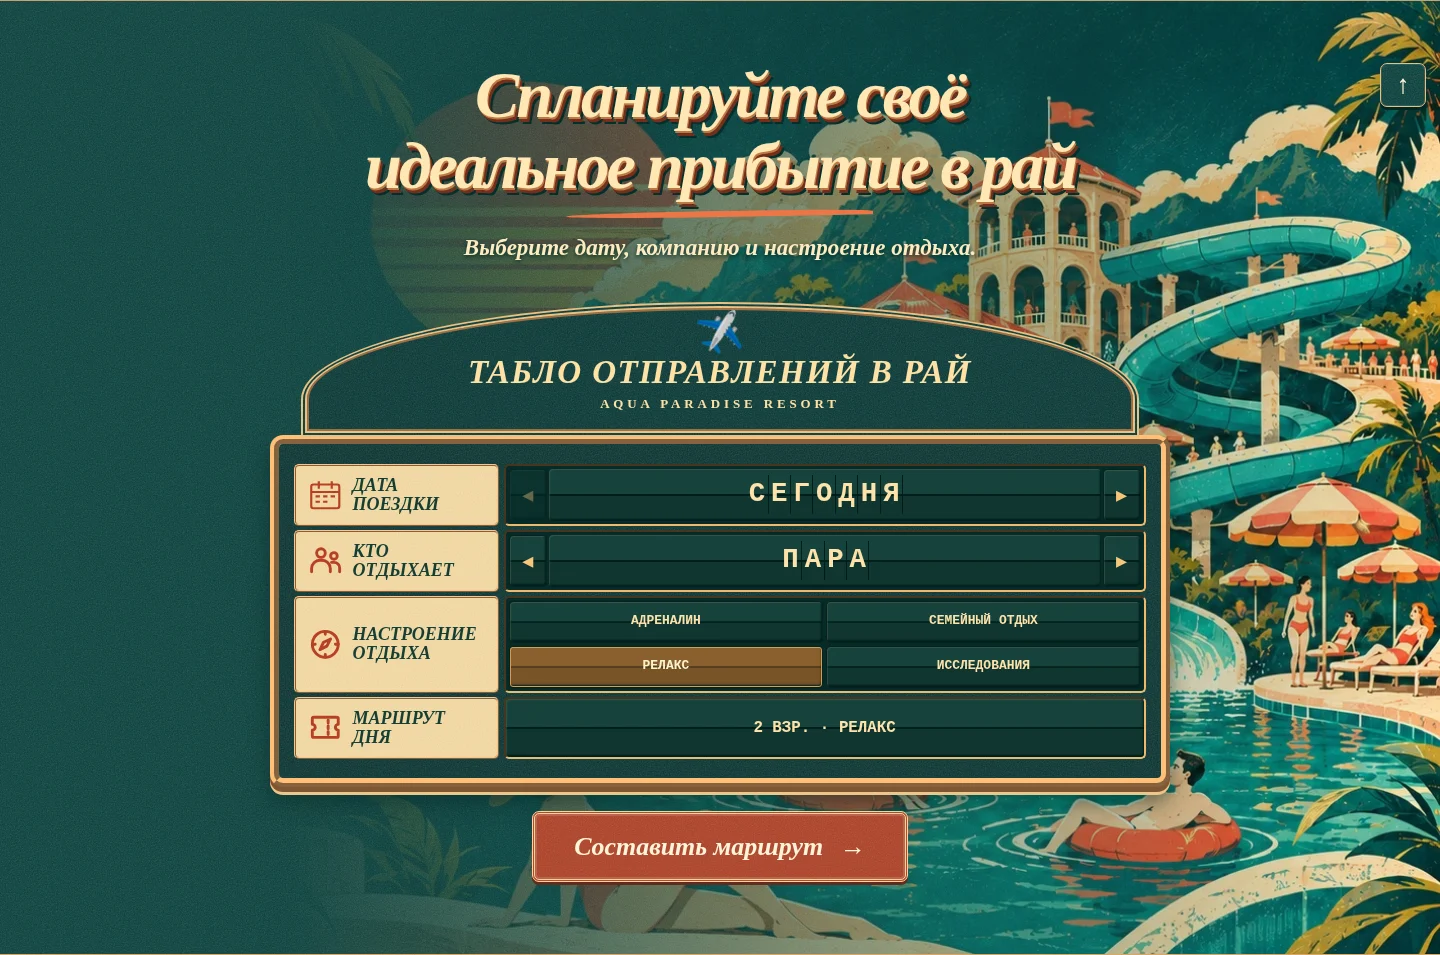
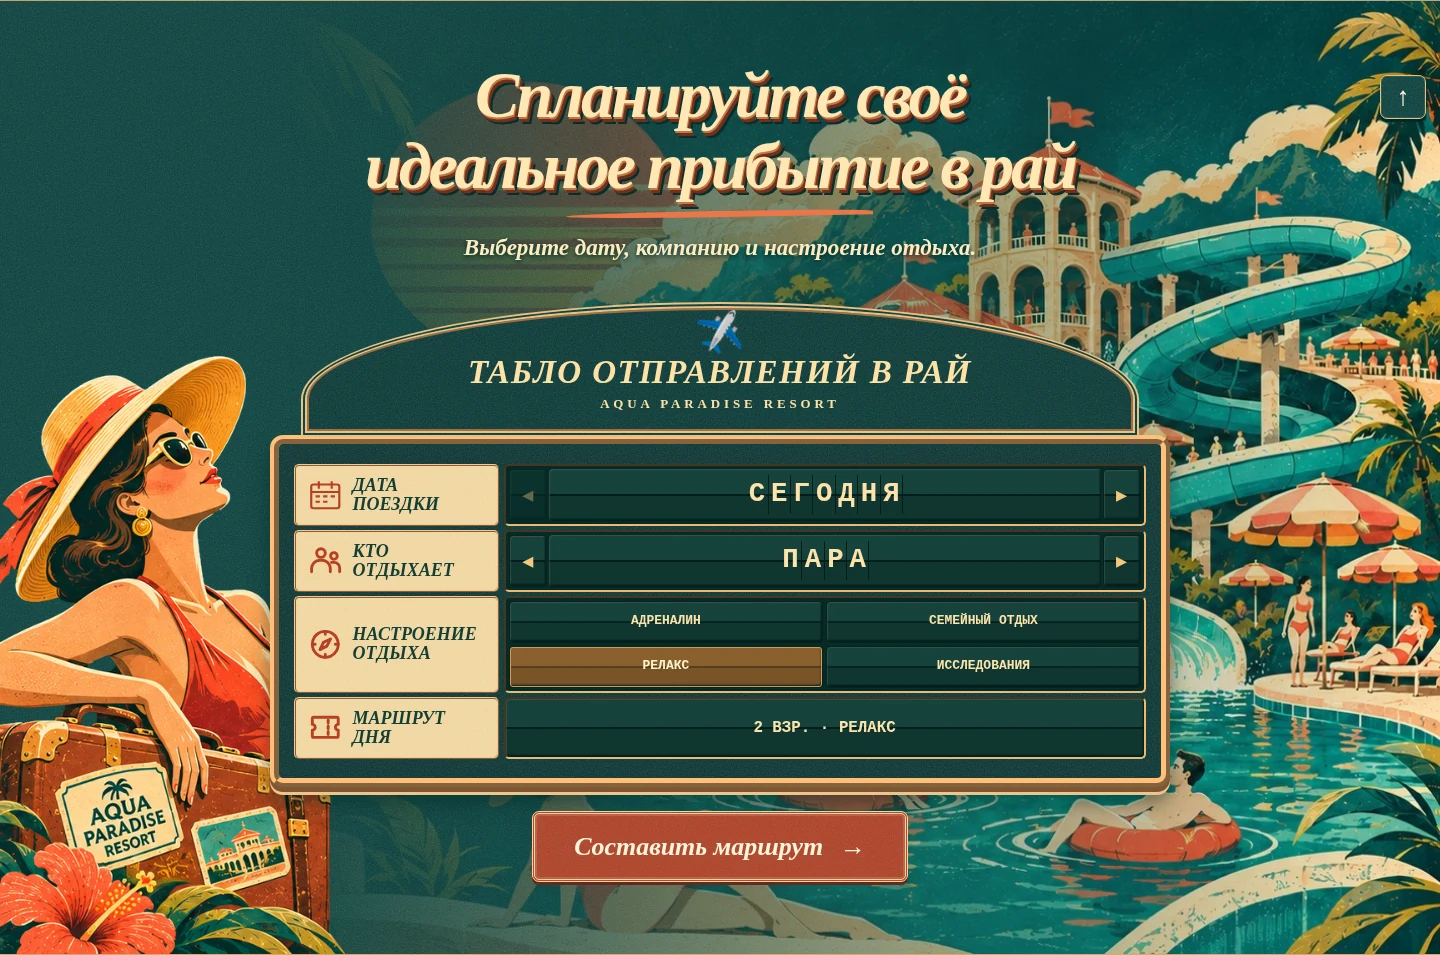
Integrate the approved traveller and suitcase into the departure board

Changed region(s): [[0.0, 0.3644, 0.25, 1.0], [0.9375, 0.0607, 1.0, 0.1215]]

diff --git a/src/riviera.css b/src/riviera.css
@@ -122,6 +122,10 @@
 .departure { overflow:hidden; padding:clamp(36px,4vw,68px) 4vw clamp(48px,5vw,84px); }
 .departure::before { content:''; position:absolute; inset:0; z-index:-2; background:url('./assets/retro/riviera.webp') right bottom / cover no-repeat; mask-image:linear-gradient(90deg, transparent 20%,#000 100%); }
 .departure .poster-heading { max-width:80%; }
+.departure-art { position:absolute; left:0; bottom:0; z-index:-1; width:min(24%,414px); aspect-ratio:414 / 717; pointer-events:none; }
+.departure-art img { position:absolute; left:0; height:auto; }
+.departure-traveller { top:0; width:96.1353%; }
+.departure-foliage { bottom:0; width:100%; }
 .departure .poster-heading h2 { font-size:clamp(35px,4.6vw,74px); }
 .departure .poster-heading > p { font:italic 600 clamp(16px,1.6vw,25px)/1.4 Georgia,serif; text-shadow:0 2px 4px #052d2a; }
 .terminal { width:min(68%,1060px); position:relative; margin:clamp(28px,2.7vw,48px) auto 0; text-align:center; }
@@ -180,7 +184,8 @@
   .riv-mast .mast-inner .apr-brand { pointer-events:auto; }
   .riv-mast .mast-inner { pointer-events:none; }
   .riv-home .apr-worlds__stage { grid-template-columns:1fr; }
-  .terminal { width:min(87%,760px); }
+  .terminal { width:min(77%,760px); margin-right:0; }
+  .departure-art { width:25%; }
   .ticket-collection { grid-template-columns:repeat(2,minmax(0,1fr)); gap:30px; max-width:730px; }
   .golden-ticket { margin:0; }
   .ticket-lettering h3 { font-size:34px; }
@@ -203,7 +208,9 @@
   .ticket-collection { gap:23px 15px; }
   .golden-ticket { --tilt:-2deg; }
   .ticket-stub { font-size:11px; }
-  .departure .poster-heading { max-width:100%; }
+  .departure .poster-heading { position:relative; max-width:100%; padding:30px 0 0 25%; min-height:clamp(165px,38vw,265px); display:flex; flex-direction:column; justify-content:center; }
+  .departure-art { width:min(29%,160px); left:-4vw; bottom:-15px; mask-image:linear-gradient(to bottom, #000 88%, transparent); }
+  .departure .poster-heading h2 { font-size:clamp(28px,6.7vw,42px); }
   .terminal { width:100%; }
   .terminal-crown { padding:4px 10px 10px; }
   .flight-mark { font-size:27px; }

diff --git a/src/components/DepartureBoard.tsx b/src/components/DepartureBoard.tsx
@@ -1,6 +1,8 @@
 import { useState } from 'react';
 import { ALL_INTERESTS, parties, todayLocal } from '../data/planner-options';
 import HeaderLineIcon from './HeaderLineIcon';
+import traveller from '../assets/retro/departure-traveller.webp';
+import foreground from '../assets/retro/departure-foreground.webp';
 
 function Letters({value}: {value: string}) {
   return <span className="board-letters" aria-hidden="true">
@@ -30,6 +32,10 @@ export default function DepartureBoard() {
   }
   return <section id="planner" className="departure poster-stock" aria-labelledby="departure-title">
     <header className="poster-heading">
+      <span className="departure-art" aria-hidden="true">
+        <img className="departure-foliage" src={foreground} width={414} height={190} alt="" loading="lazy" decoding="async" />
+        <img className="departure-traveller" src={traveller} width={398} height={692} alt="" loading="lazy" decoding="async" />
+      </span>
       <h2 id="departure-title">Спланируйте своё<br />идеальное прибытие в рай</h2>
       <p>Выберите дату, компанию и настроение отдыха.</p>
     </header>

diff --git a/docs/qa/riviera-homepage/README.md b/docs/qa/riviera-homepage/README.md
@@ -1,6 +1,6 @@
 # Aqua Paradise Resort · Проверка главной страницы
 
-Рабочая ветка `feat/riviera-homepage` основана на `feat/retro-tropical-hero` (`5b6fa65`). В табло отправлений остаётся установить путешественницу с чемоданом из полноразмерного PNG или отдельного слоя заказчика. Снимки показывают текущее состояние.
+Рабочая ветка `feat/riviera-homepage` основана на `feat/retro-tropical-hero` (`5b6fa65`). В табло отправлений установлена путешественница с чемоданом из утверждённого PNG.
 
 ## Скриншоты
 
@@ -14,6 +14,12 @@
 | Билеты аттракционов | [Открыть](tickets-1440.webp) | [Открыть](tickets-375.webp) |
 | Табло отправлений | [Открыть](planner-1440.webp) | [Открыть](planner-375.webp) |
 | Sunset Pier | [Открыть](footer-1440.webp) | [Открыть](footer-375.webp) |
+
+### Табло отправлений
+
+[1440 px](planner-1440.webp) · [1280 px](planner-1280.webp) · [768 px](planner-768.webp) · [375 px](planner-375.webp)
+
+На десктопе и планшете путешественница расположена у левого края табло. На смартфоне она находится слева от заголовка над табло, а поля занимают полную ширину. При проверке на четырёх ширинах оба слоя загрузились, страница поместилась по ширине, все поля и кнопки принимали нажатия. В каждом размере проверены ограничение на прошедшую дату и перенос выбранной даты, семейного состава и двух интересов в полный планировщик.
 
 ## Запуск
 
@@ -43,5 +49,7 @@ npm run dev
 ## Источники оформления и данных
 
 Hero, терраса, знак с пальмой и девять отдельных видов зон взяты из проектной ветки ретродизайна. Изображения Skyfall (ART‑11 v2), Poseidon's Descent (ART‑12), Stormbreaker (ART‑06) и Crystal Passage (ART‑13) взяты из проектной коллекции `docs/design/review` ветки `feat/premium-redesign`. Для билетов подготовлены уменьшенные WebP с печатной обработкой в интерфейсе. Локальные шрифты Allura и Libre Baskerville сопровождаются лицензиями OFL в `src/assets/retro/fonts/`.
+
+[Путешественница с чемоданом](../../../src/assets/retro/departure-traveller.webp) подготовлена из предоставленного архива `apr-departure-board-approved.zip` по альфа-маске. Слой размером 398 × 692 px сохранён в WebP без потерь. Сверка с PNG показала совпадение RGB у всех 181 033 пикселей с ненулевой непрозрачностью. Слева силуэт заканчивается на границе исходного кадра. Растения, закрывающие нижнюю часть чемодана, вынесены в [отдельный слой](../../../src/assets/retro/departure-foreground.webp).
 
 Названия, интенсивность, возраст и минимальный рост привязаны к каталогу аттракционов. Описания и адреса девяти зон общие с их внутренней страницей. Для полного планировщика компания задаёт исходный состав гостей. Значения возраста и роста доступны для проверки и изменения до построения маршрута.
